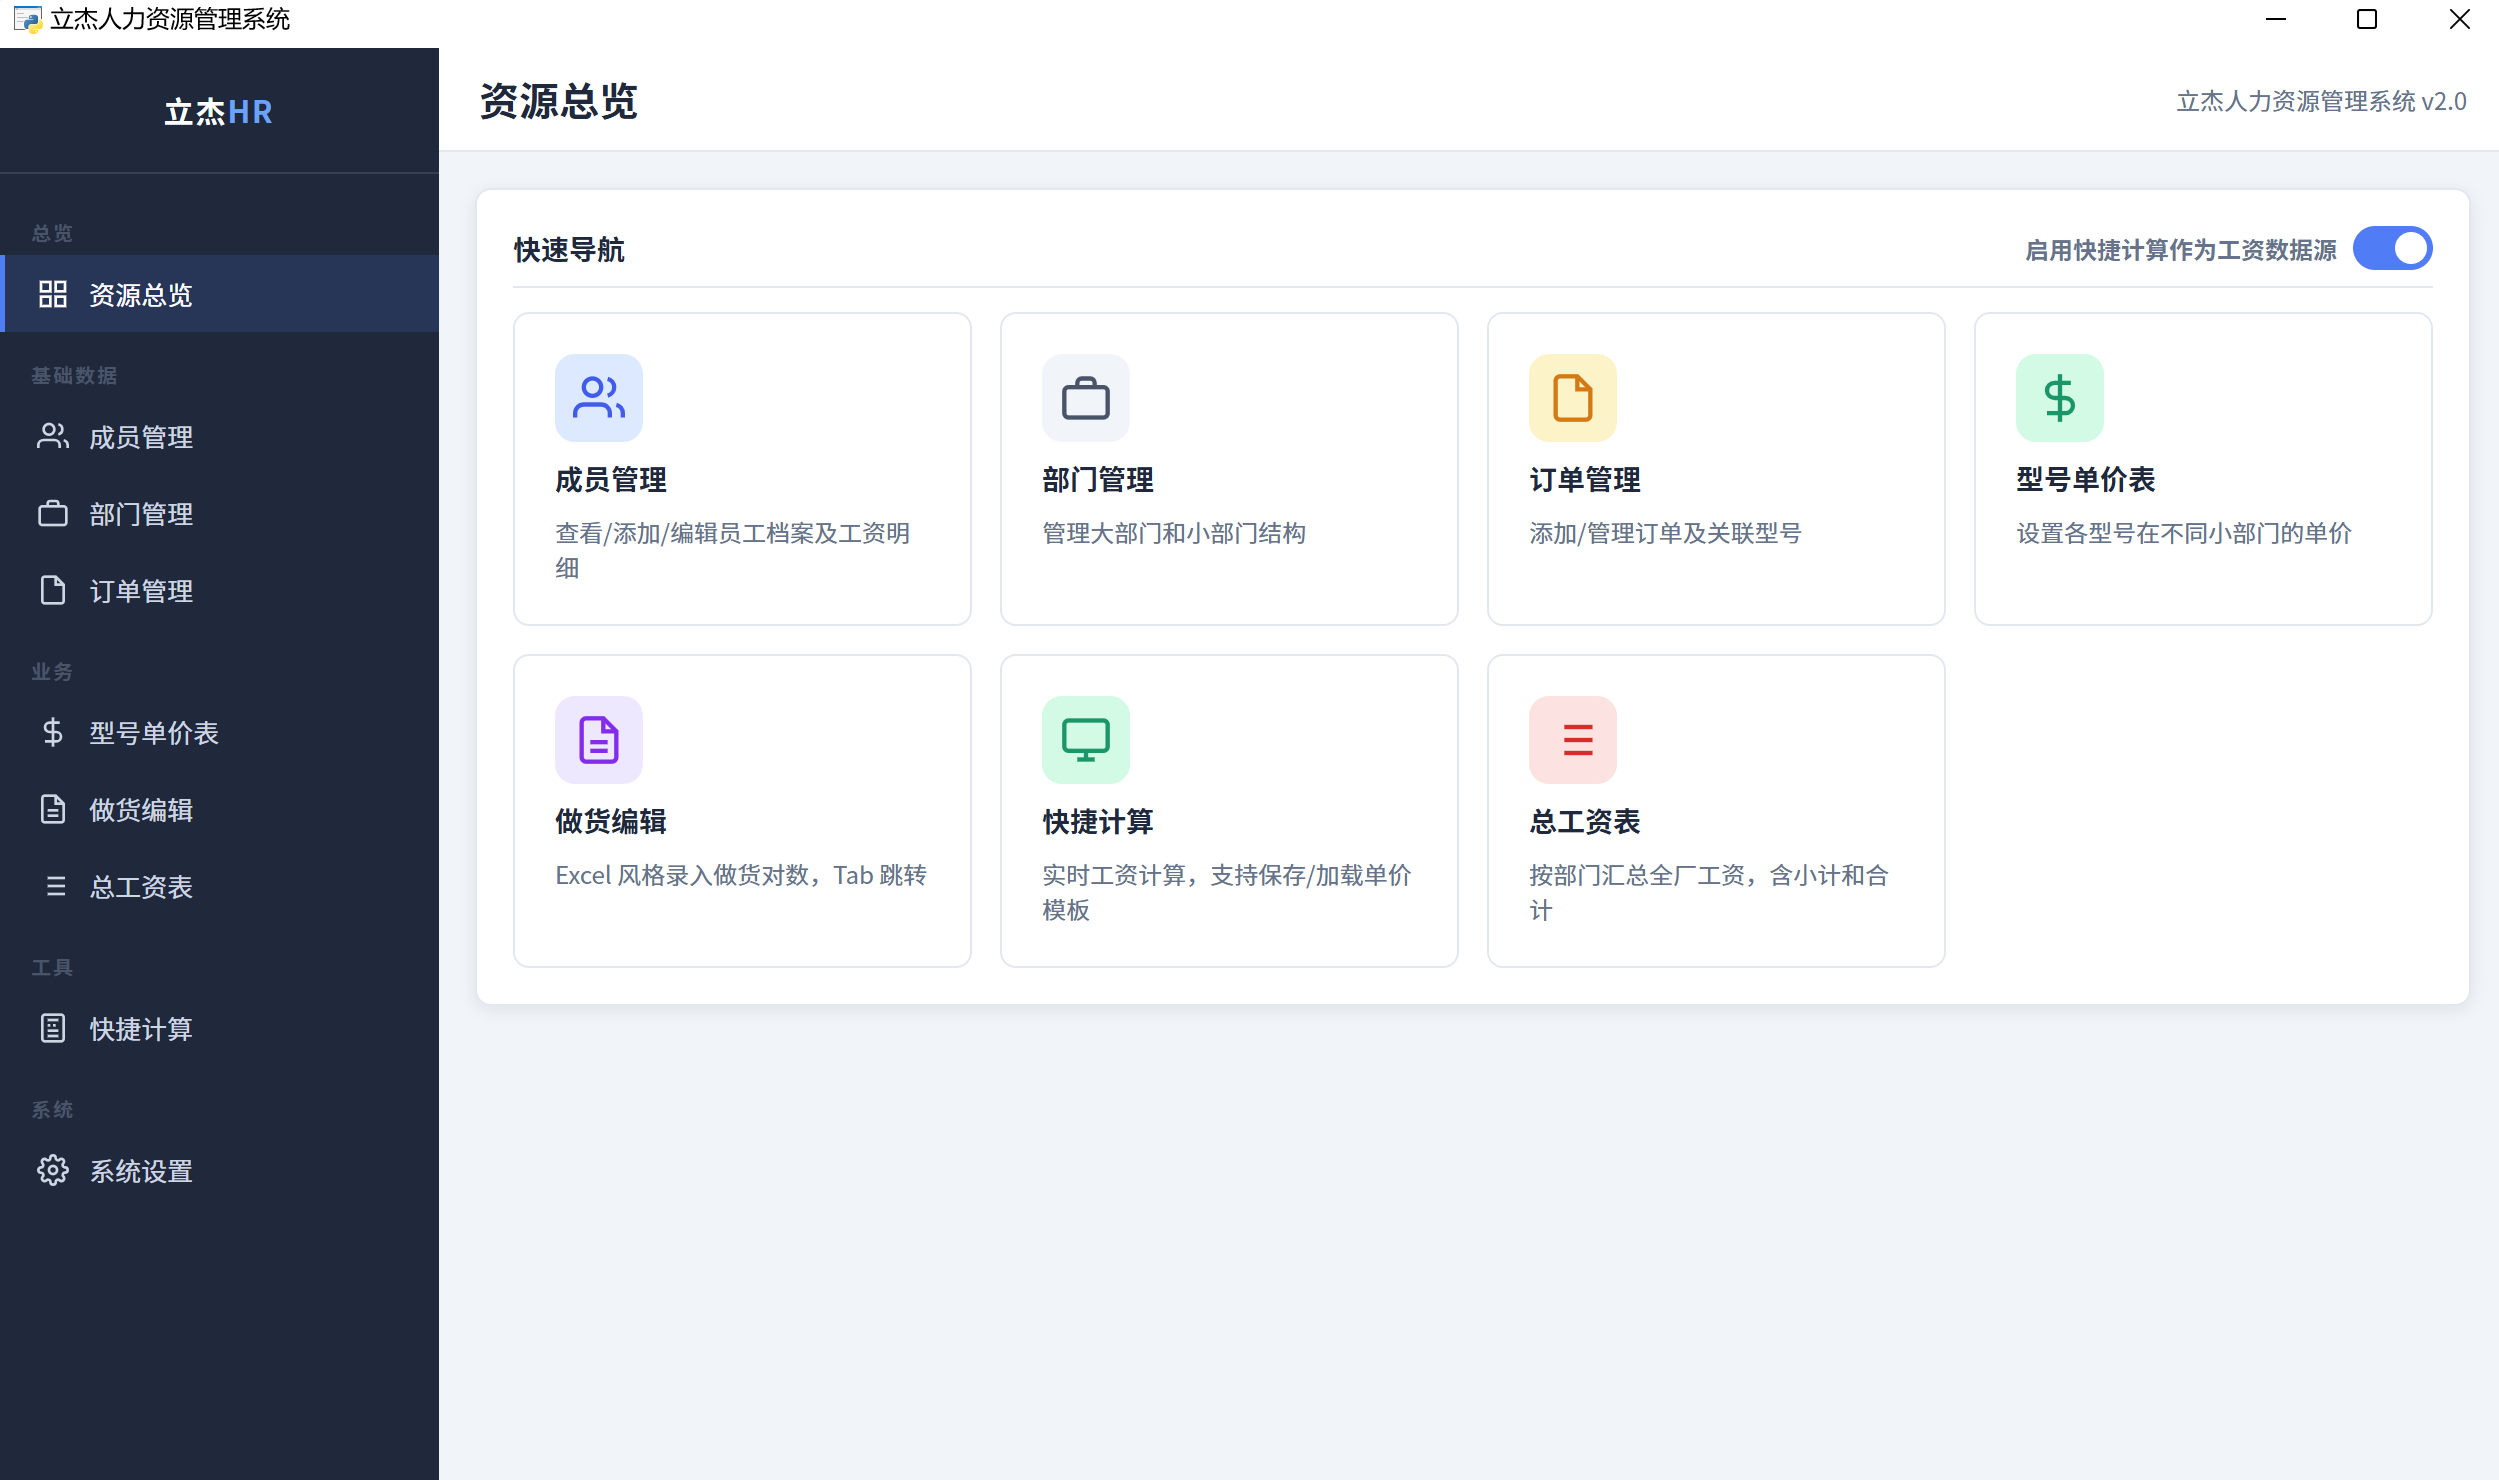
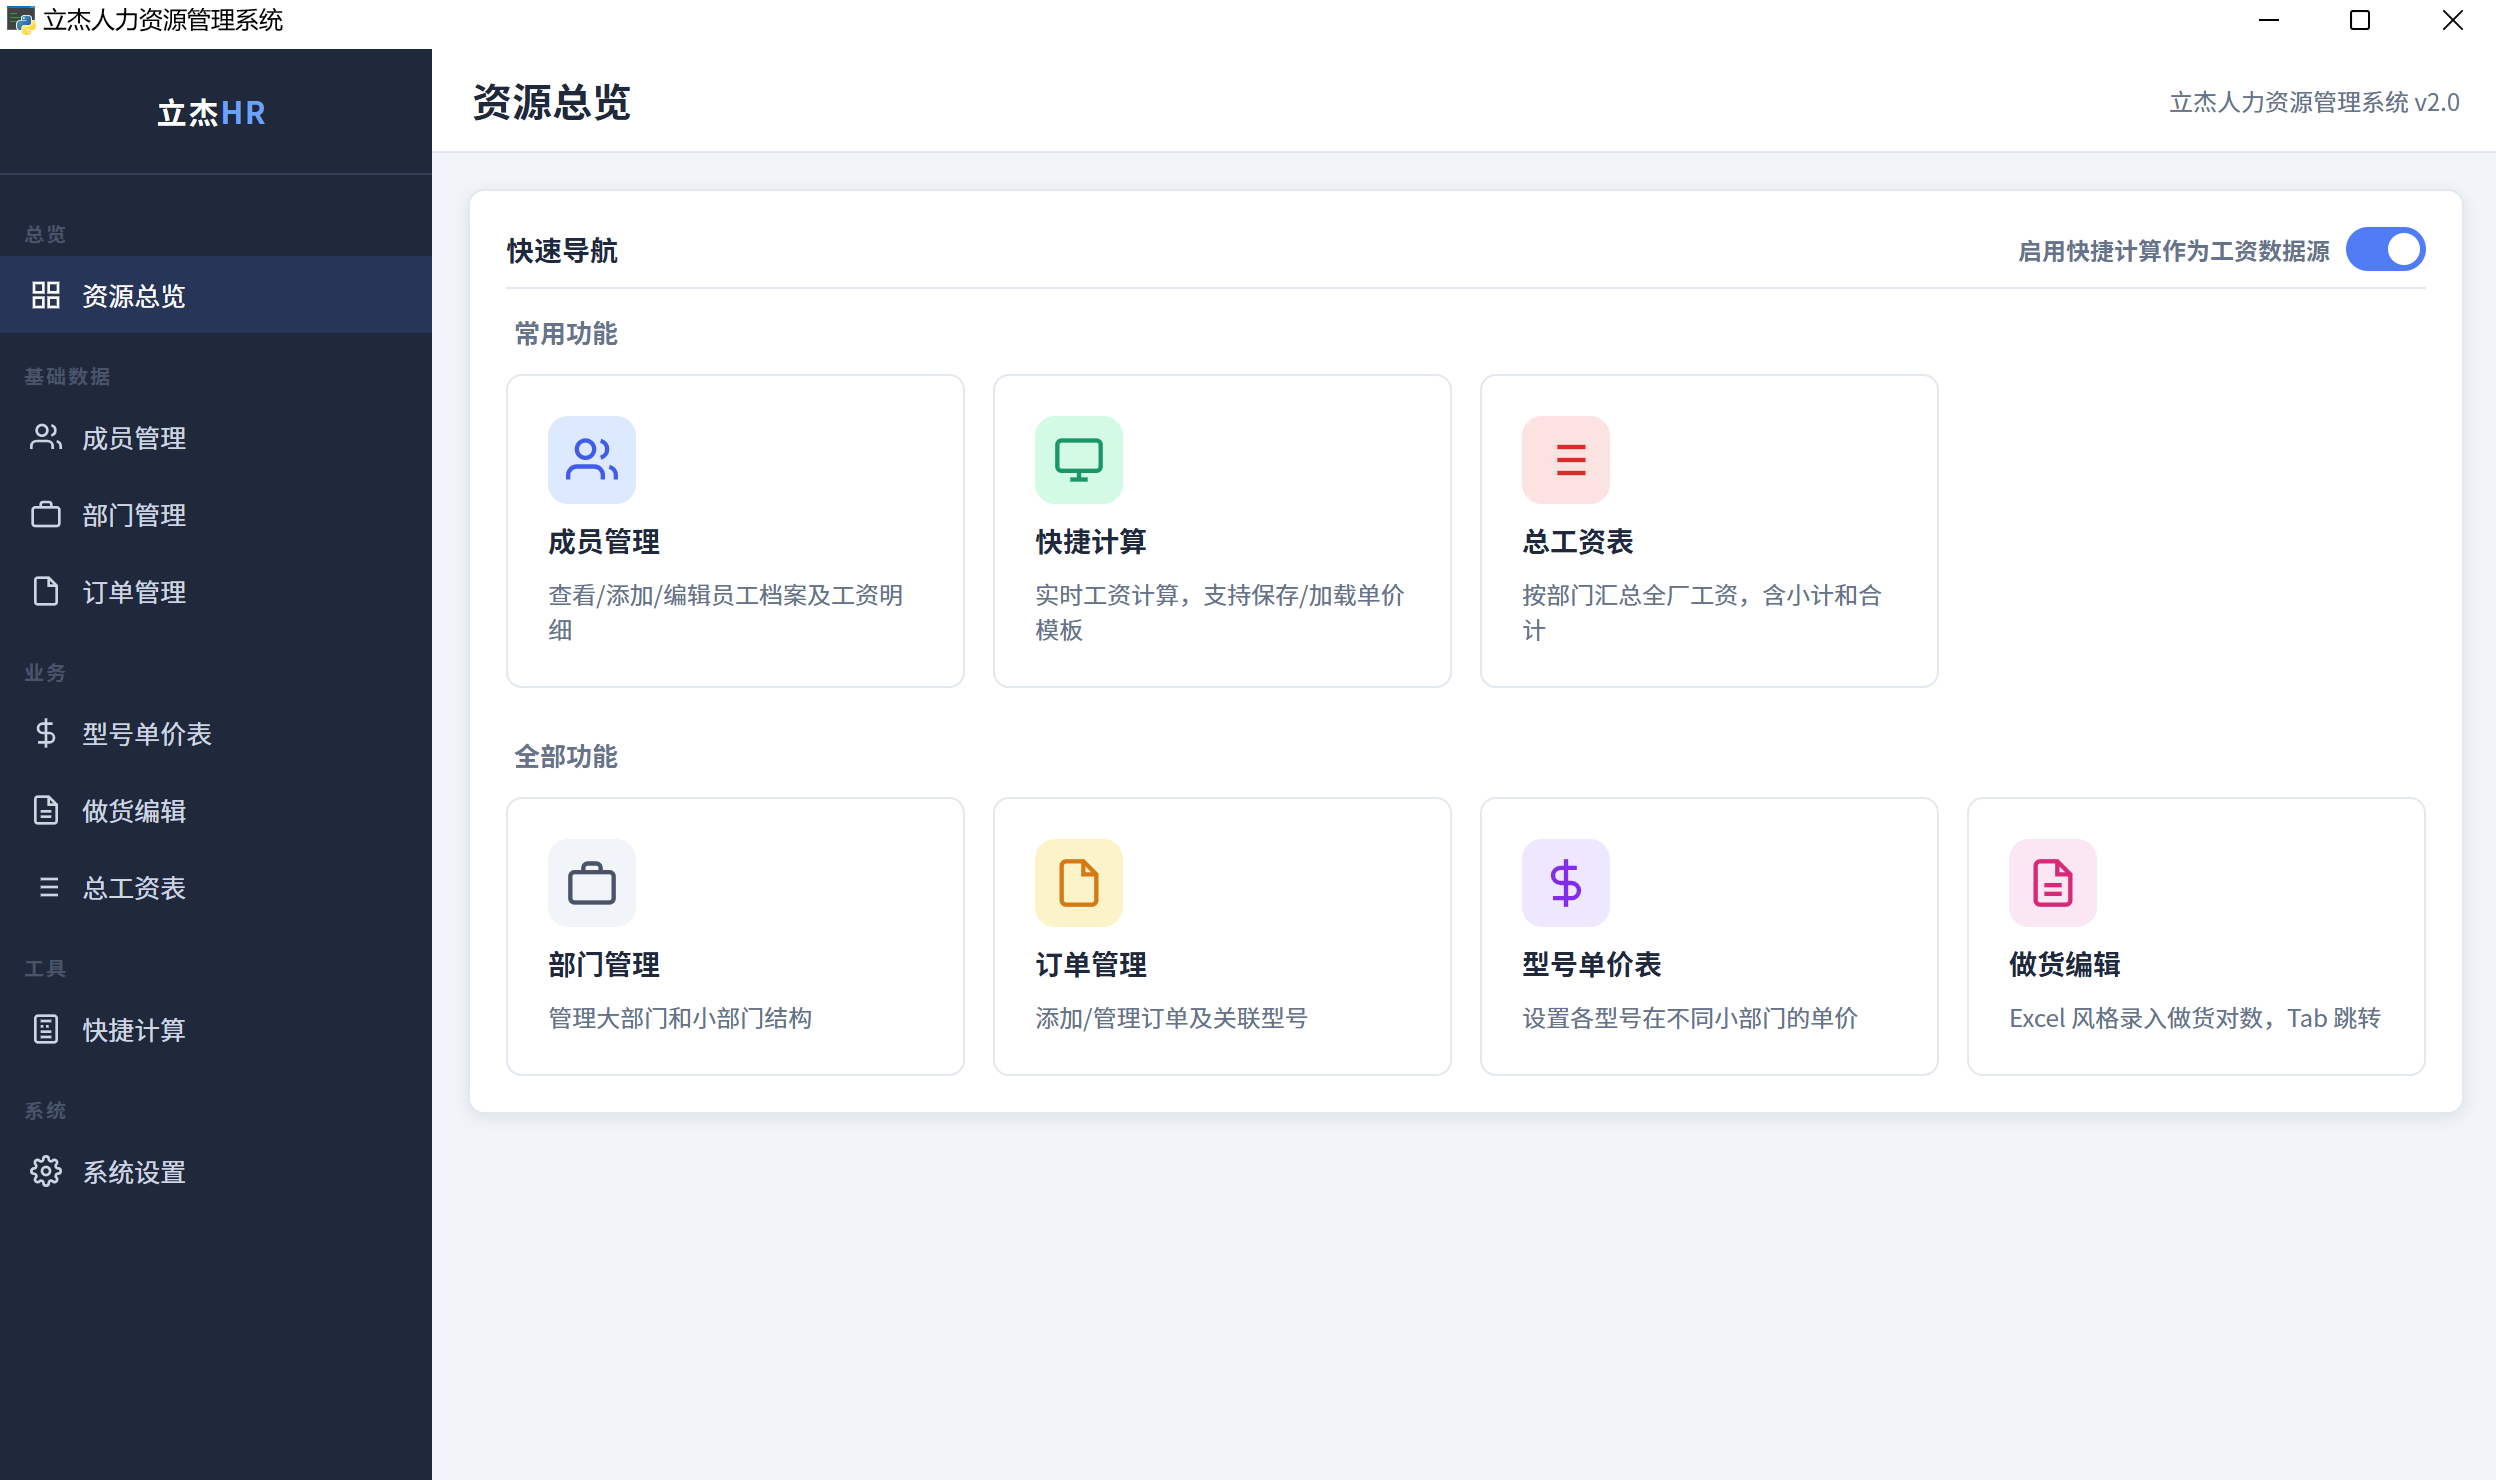
常用功能

diff --git a/web/index.html b/web/index.html
@@ -94,7 +94,9 @@
             </div>
           </label>
         </div>
-        <div class="overview-grid">
+        <!-- 常用功能 -->
+        <div style="font-size:13px;font-weight:600;color:#64748b;margin:0 0 12px 4px;">常用功能</div>
+        <div class="overview-grid" style="margin-bottom:24px;">
           <div class="overview-card" onclick="navigateWithHistory('members')">
             <div class="oc-icon" style="background:#dbeafe;">
               <svg viewBox="0 0 24 24" fill="none" stroke="#2563eb" stroke-width="2" width="26" height="26"><path d="M17 21v-2a4 4 0 0 0-4-4H5a4 4 0 0 0-4 4v2"/><circle cx="9" cy="7" r="4"/><path d="M23 21v-2a4 4 0 0 0-3-3.87"/><path d="M16 3.13a4 4 0 0 1 0 7.75"/></svg>
@@ -102,6 +104,25 @@
             <div class="oc-title">成员管理</div>
             <div class="oc-desc">查看/添加/编辑员工档案及工资明细</div>
           </div>
+          <div class="overview-card" onclick="navigateWithHistory('quickcalc')">
+            <div class="oc-icon" style="background:#d1fae5;">
+              <svg viewBox="0 0 24 24" fill="none" stroke="#059669" stroke-width="2" width="26" height="26"><rect x="2" y="3" width="20" height="14" rx="2"/><line x1="8" y1="21" x2="16" y2="21"/><line x1="12" y1="17" x2="12" y2="21"/></svg>
+            </div>
+            <div class="oc-title">快捷计算</div>
+            <div class="oc-desc">实时工资计算，支持保存/加载单价模板</div>
+          </div>
+          <div class="overview-card" onclick="navigateWithHistory('salary')">
+            <div class="oc-icon" style="background:#fee2e2;">
+              <svg viewBox="0 0 24 24" fill="none" stroke="#dc2626" stroke-width="2" width="26" height="26"><line x1="8" y1="6" x2="21" y2="6"/><line x1="8" y1="12" x2="21" y2="12"/><line x1="8" y1="18" x2="21" y2="18"/><line x1="3" y1="6" x2="3.01" y2="6"/><line x1="3" y1="12" x2="3.01" y2="12"/><line x1="3" y1="18" x2="3.01" y2="18"/></svg>
+            </div>
+            <div class="oc-title">总工资表</div>
+            <div class="oc-desc">按部门汇总全厂工资，含小计和合计</div>
+          </div>
+        </div>
+
+        <!-- 全部功能 -->
+        <div style="font-size:13px;font-weight:600;color:#64748b;margin:0 0 12px 4px;">全部功能</div>
+        <div class="overview-grid">
           <div class="overview-card" onclick="navigateWithHistory('departments')">
             <div class="oc-icon" style="background:#f1f5f9;">
               <svg viewBox="0 0 24 24" fill="none" stroke="#475569" stroke-width="2" width="26" height="26"><rect x="2" y="7" width="20" height="14" rx="2"/><path d="M16 7V5a2 2 0 0 0-2-2h-4a2 2 0 0 0-2 2v2"/></svg>
@@ -117,32 +138,18 @@
             <div class="oc-desc">添加/管理订单及关联型号</div>
           </div>
           <div class="overview-card" onclick="navigateWithHistory('prices')">
-            <div class="oc-icon" style="background:#d1fae5;">
-              <svg viewBox="0 0 24 24" fill="none" stroke="#059669" stroke-width="2" width="26" height="26"><line x1="12" y1="1" x2="12" y2="23"/><path d="M17 5H9.5a3.5 3.5 0 0 0 0 7h5a3.5 3.5 0 0 1 0 7H6"/></svg>
+            <div class="oc-icon" style="background:#ede9fe;">
+              <svg viewBox="0 0 24 24" fill="none" stroke="#7c3aed" stroke-width="2" width="26" height="26"><line x1="12" y1="1" x2="12" y2="23"/><path d="M17 5H9.5a3.5 3.5 0 0 0 0 7h5a3.5 3.5 0 0 1 0 7H6"/></svg>
             </div>
             <div class="oc-title">型号单价表</div>
             <div class="oc-desc">设置各型号在不同小部门的单价</div>
           </div>
           <div class="overview-card" onclick="navigateWithHistory('work')">
-            <div class="oc-icon" style="background:#ede9fe;">
-              <svg viewBox="0 0 24 24" fill="none" stroke="#7c3aed" stroke-width="2" width="26" height="26"><path d="M14 2H6a2 2 0 0 0-2 2v16a2 2 0 0 0 2 2h12a2 2 0 0 0 2-2V8z"/><polyline points="14 2 14 8 20 8"/><line x1="16" y1="13" x2="8" y2="13"/><line x1="16" y1="17" x2="8" y2="17"/></svg>
+            <div class="oc-icon" style="background:#fce7f3;">
+              <svg viewBox="0 0 24 24" fill="none" stroke="#db2777" stroke-width="2" width="26" height="26"><path d="M14 2H6a2 2 0 0 0-2 2v16a2 2 0 0 0 2 2h12a2 2 0 0 0 2-2V8z"/><polyline points="14 2 14 8 20 8"/><line x1="16" y1="13" x2="8" y2="13"/><line x1="16" y1="17" x2="8" y2="17"/></svg>
             </div>
             <div class="oc-title">做货编辑</div>
             <div class="oc-desc">Excel 风格录入做货对数，Tab 跳转</div>
-          </div>
-          <div class="overview-card" onclick="navigateWithHistory('quickcalc')">
-            <div class="oc-icon" style="background:#d1fae5;">
-              <svg viewBox="0 0 24 24" fill="none" stroke="#059669" stroke-width="2" width="26" height="26"><rect x="2" y="3" width="20" height="14" rx="2"/><line x1="8" y1="21" x2="16" y2="21"/><line x1="12" y1="17" x2="12" y2="21"/></svg>
-            </div>
-            <div class="oc-title">快捷计算</div>
-            <div class="oc-desc">实时工资计算，支持保存/加载单价模板</div>
-          </div>
-          <div class="overview-card" onclick="navigateWithHistory('salary')">
-            <div class="oc-icon" style="background:#fee2e2;">
-              <svg viewBox="0 0 24 24" fill="none" stroke="#dc2626" stroke-width="2" width="26" height="26"><line x1="8" y1="6" x2="21" y2="6"/><line x1="8" y1="12" x2="21" y2="12"/><line x1="8" y1="18" x2="21" y2="18"/><line x1="3" y1="6" x2="3.01" y2="6"/><line x1="3" y1="12" x2="3.01" y2="12"/><line x1="3" y1="18" x2="3.01" y2="18"/></svg>
-            </div>
-            <div class="oc-title">总工资表</div>
-            <div class="oc-desc">按部门汇总全厂工资，含小计和合计</div>
           </div>
         </div>
       </div>
